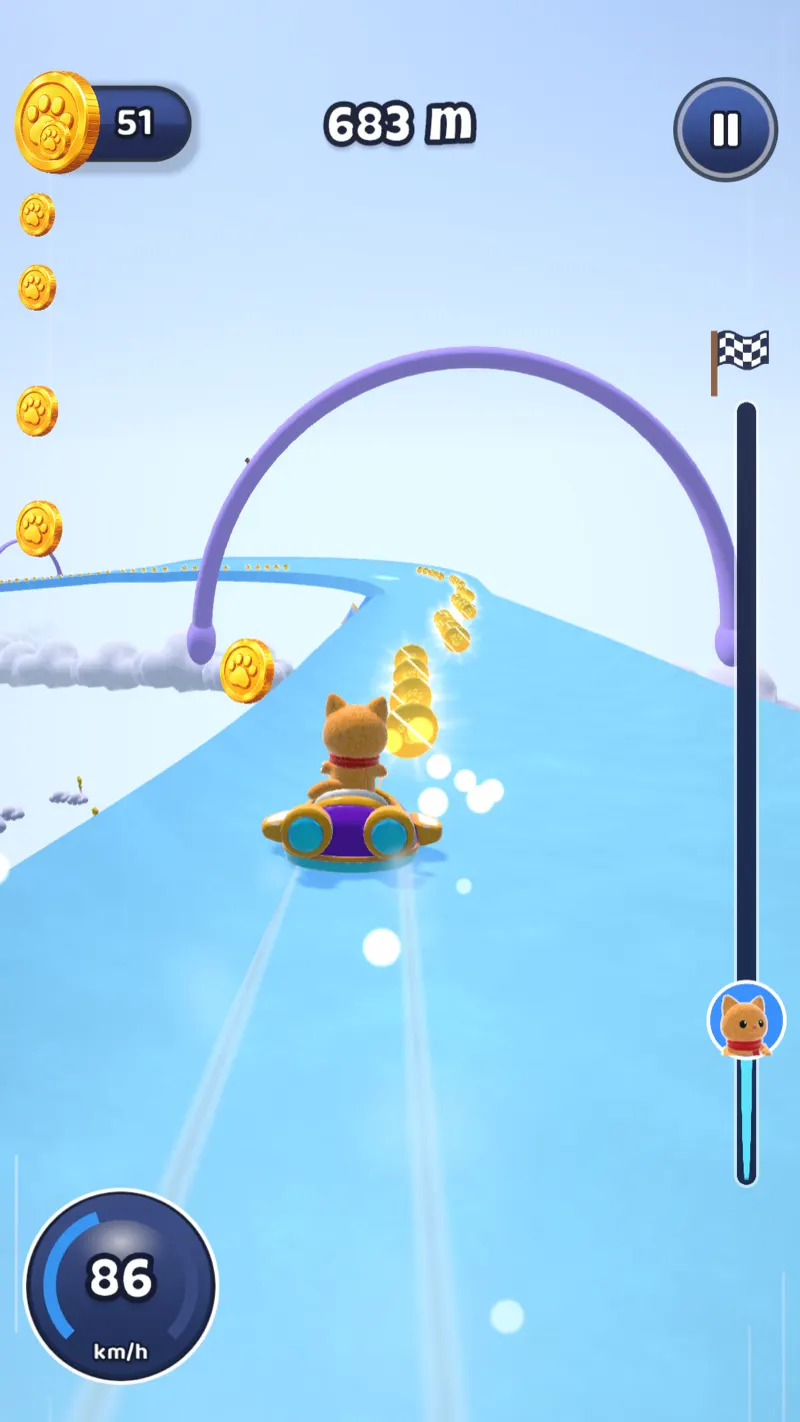
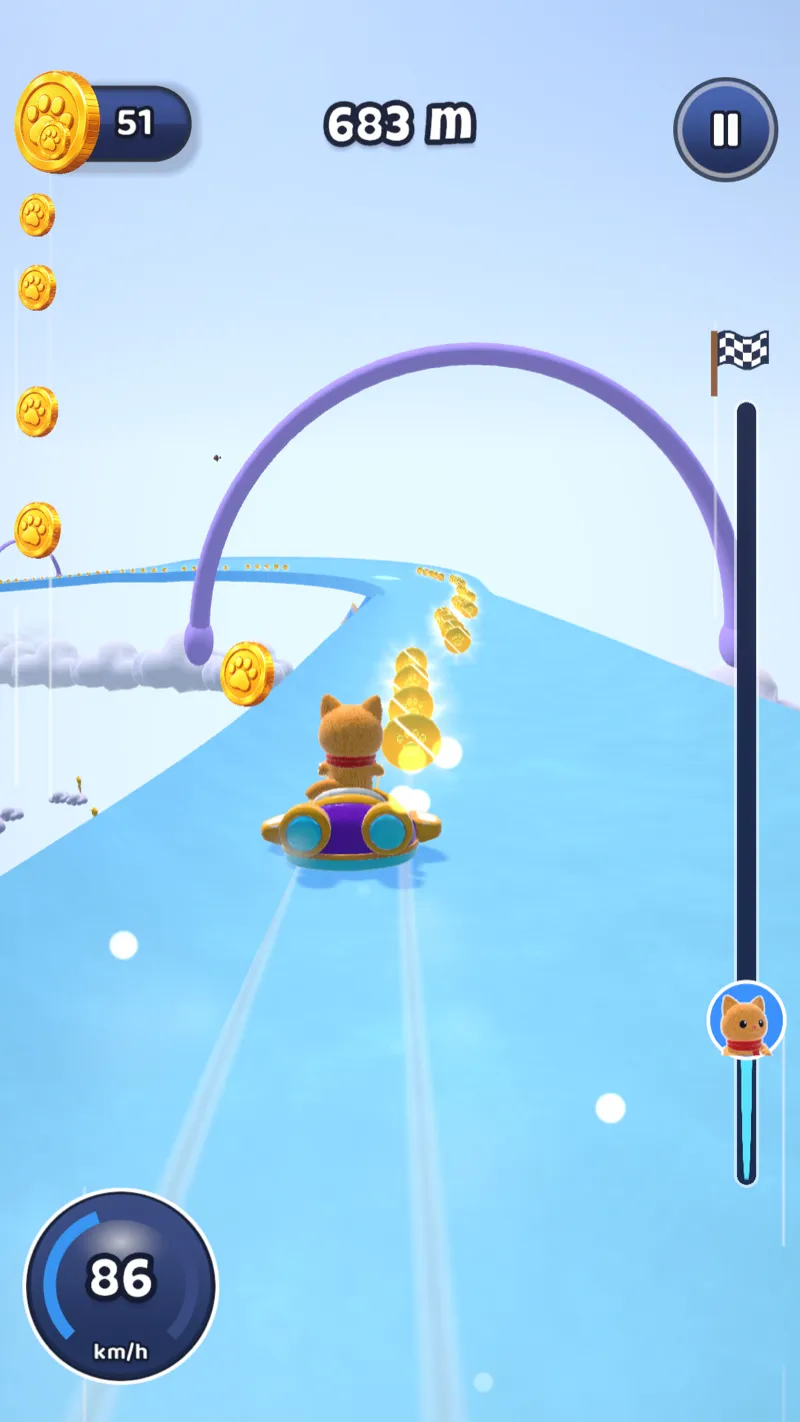
Sledpaws page: the spring launcher (texts, a launcher highlight) and new screenshots from the game as it is now

diff --git a/src/data/games.ts b/src/data/games.ts
@@ -250,26 +250,26 @@ export const games: Game[] = [
     subtitle: "Launch, slide, save the pups",
     tagline: "Pull back, aim at the bullseye and let go! Slide through 38 maps with animal riders and bring every lost pup home.",
     description: [
-      "Pull back the slingshot, aim at the bullseye on the snow and let go! Your rider shoots down a long track and slides as far as the speed takes it.",
+      "Press down the spring launcher, aim at the bullseye on the snow and let go! Your rider shoots down a long track and slides as far as the speed takes it.",
       "Collect coins, upgrade, and go further every run until you cross the finish line and a new world opens. There are 38 maps in 20 themes, from snowy streets, frozen lakes and a lantern village to desert dunes, a candy town, cloud castles, moon craters, a giant toy room and a volcano valley, and every map brings its own twist: trams crossing the road, bounce pads, cracked ice, side wind, rolling snowballs, waves, geysers, low gravity and whirlwinds.",
       "Little lost pups wait along every track. Touch one and it jumps on behind you; bring it home for bonus treasure, but hold on, because a crash sends them tumbling. Every few minutes a bonus slide opens high above the clouds, full of coins. Daily rewards, daily tasks, a free chest and a piggy bank keep every day fresh, and there is no energy and no tickets: play as long as you like.",
     ],
     features: [
-      { title: "Hit the bullseye", body: "Pull, aim and let go. Slide right through the target's centre for a Perfect start." },
+      { title: "Hit the bullseye", body: "Press, aim and let go. Slide right through the target's centre for a Perfect start." },
       { title: "38 maps, 20 themes", body: "Every map has its own twist, from cracked ice and side wind to waves, geysers and low gravity on the moon." },
       { title: "Save the lost pups", body: "Pick up pups along the track, bring them home for treasure and fill your pup album." },
       { title: "Bonus sky slides", body: "Every few minutes a coin-filled bonus slide opens above the clouds. Stay on it as long as you can." },
       { title: "11 riders, 25 rides", body: "A cat, panda, penguin, koala, fox, bear, bunny, puppy, giraffe, hedgehog or raccoon in 26 looks, on 25 sleds and themed rides." },
-      { title: "Upgrades and daily fun", body: "Upgrades are never lost. Daily rewards, tasks, a free chest and a piggy bank, and no energy to wait for." },
+      { title: "A launcher that grows", body: "Upgrades are never lost: your toy spring launcher grows from wood to chrome, crystal ice, gold and rainbow. Daily rewards, tasks and a free chest, and no energy to wait for." },
     ],
     icon: "/games/sledpaws/icon-512.webp",
     iconLarge: "/games/sledpaws/icon.png",
     screenshots: [
-      { src: "/games/sledpaws/screen-1.webp", width: 800, height: 1422, alt: "Home screen: the cat on its sled at the slingshot, with the Launch, Ride and Treasure upgrades" },
+      { src: "/games/sledpaws/screen-1.webp", width: 800, height: 1422, alt: "Home screen: the cat on its sled on the chrome spring launcher, with the Launcher, Ride and Treasure upgrades" },
       { src: "/games/sledpaws/screen-2.webp", width: 800, height: 1422, alt: "Sliding down an icy track through a snowy valley" },
-      { src: "/games/sledpaws/screen-3.webp", width: 800, height: 1422, alt: "Pulling back the slingshot and aiming at the target on the snow" },
+      { src: "/games/sledpaws/screen-3.webp", width: 800, height: 1422, alt: "Pressing down the spring launcher and aiming at the target in the candy town" },
       { src: "/games/sledpaws/screen-4.webp", width: 800, height: 1422, alt: "A bonus run on a coin-filled slide above the clouds" },
-      { src: "/games/sledpaws/screen-5.webp", width: 800, height: 1422, alt: "A new distance record on the moon map" },
+      { src: "/games/sledpaws/screen-5.webp", width: 800, height: 1422, alt: "Sliding over the moon craters with a saved pup on board" },
       { src: "/games/sledpaws/screen-6.webp", width: 800, height: 1422, alt: "Run results with coins earned, pups brought home and an optional bonus spin" },
       { src: "/games/sledpaws/screen-7.webp", width: 800, height: 1422, alt: "A new pup joins the album: a raccoon in a green scarf" },
     ],
